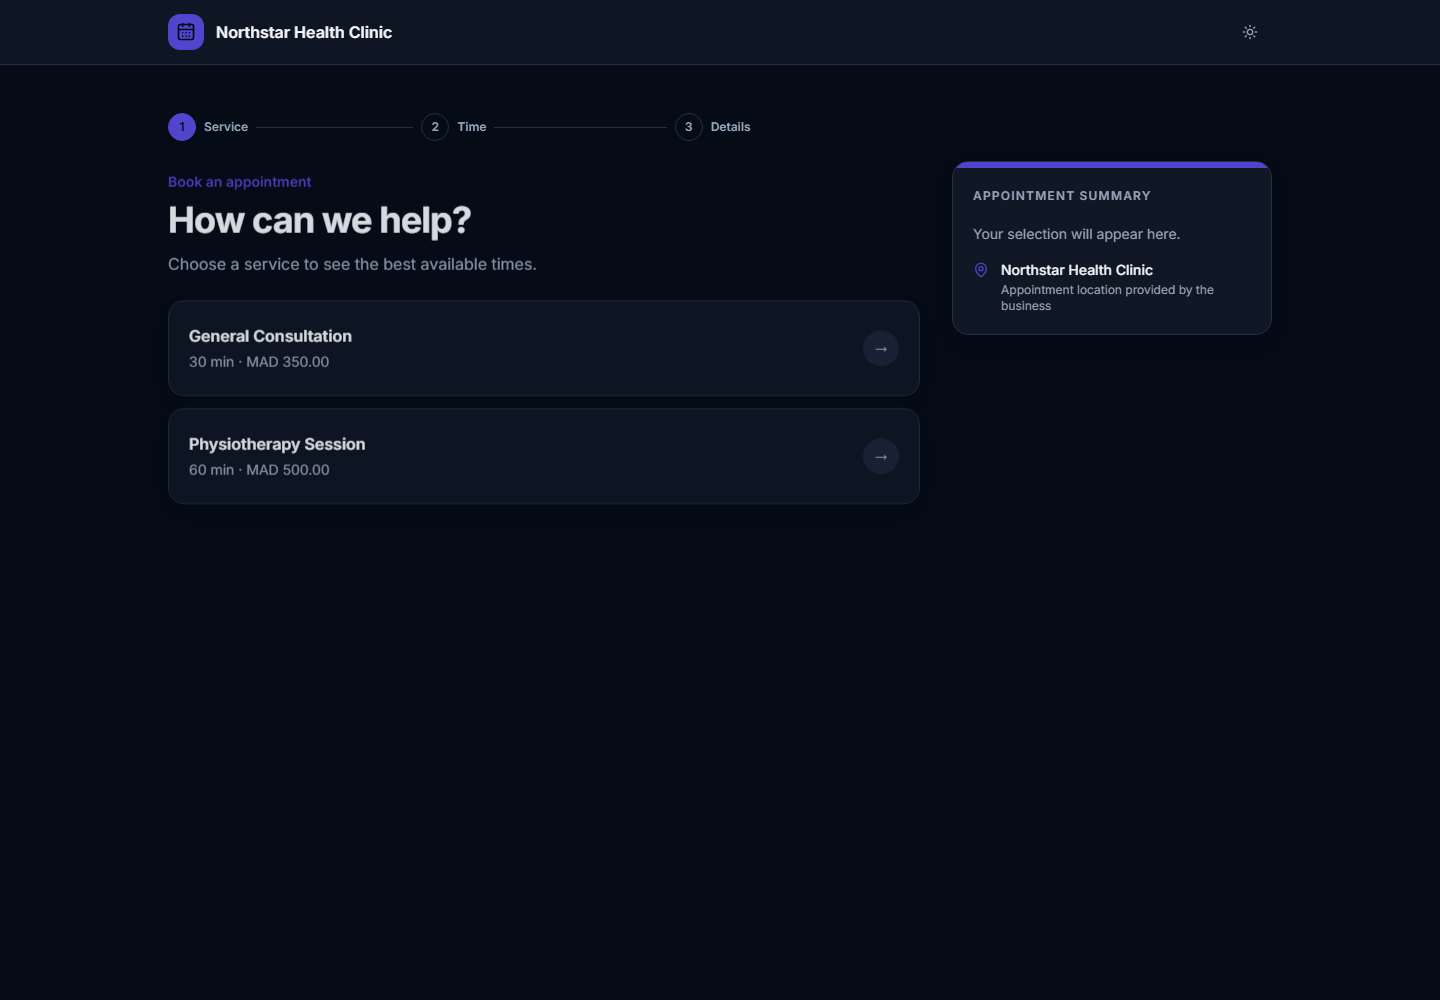
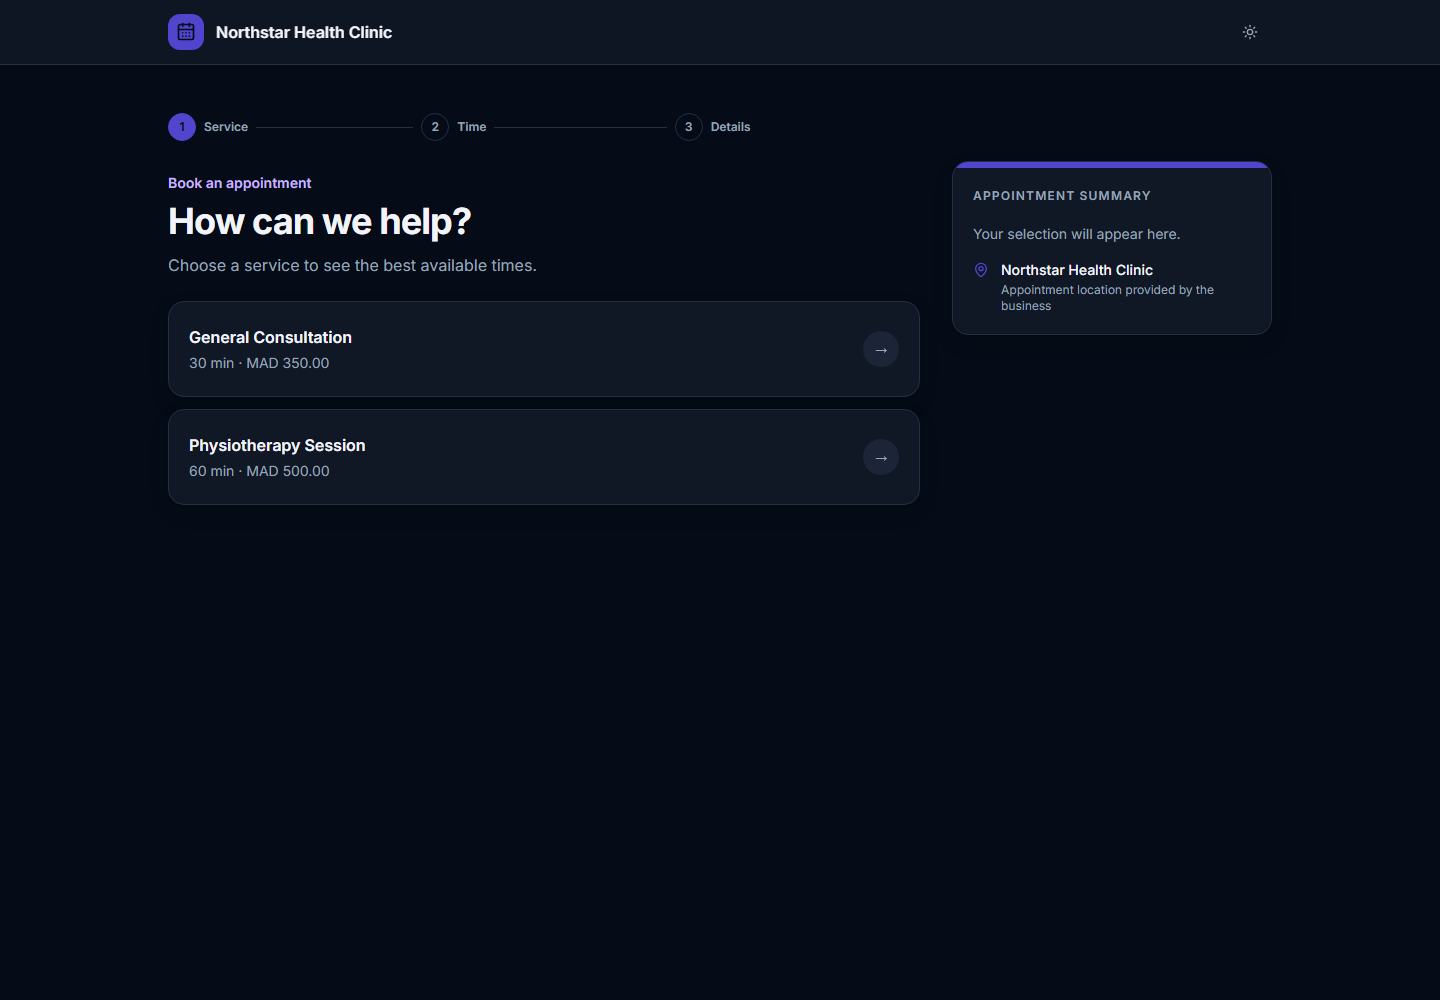
fix: meet WCAG contrast in tenant dark themes

diff --git a/src/slotly-web/src/pages/public-booking.tsx b/src/slotly-web/src/pages/public-booking.tsx
@@ -503,7 +503,7 @@ function Title({
 }) {
   return (
     <div>
-      <p className="text-sm font-semibold text-primary">{eyebrow}</p>
+      <p className="text-sm font-semibold text-primary dark:text-violet-300">{eyebrow}</p>
       <h1 className="mt-2 text-3xl font-bold tracking-tight sm:text-4xl">
         {title}
       </h1>
